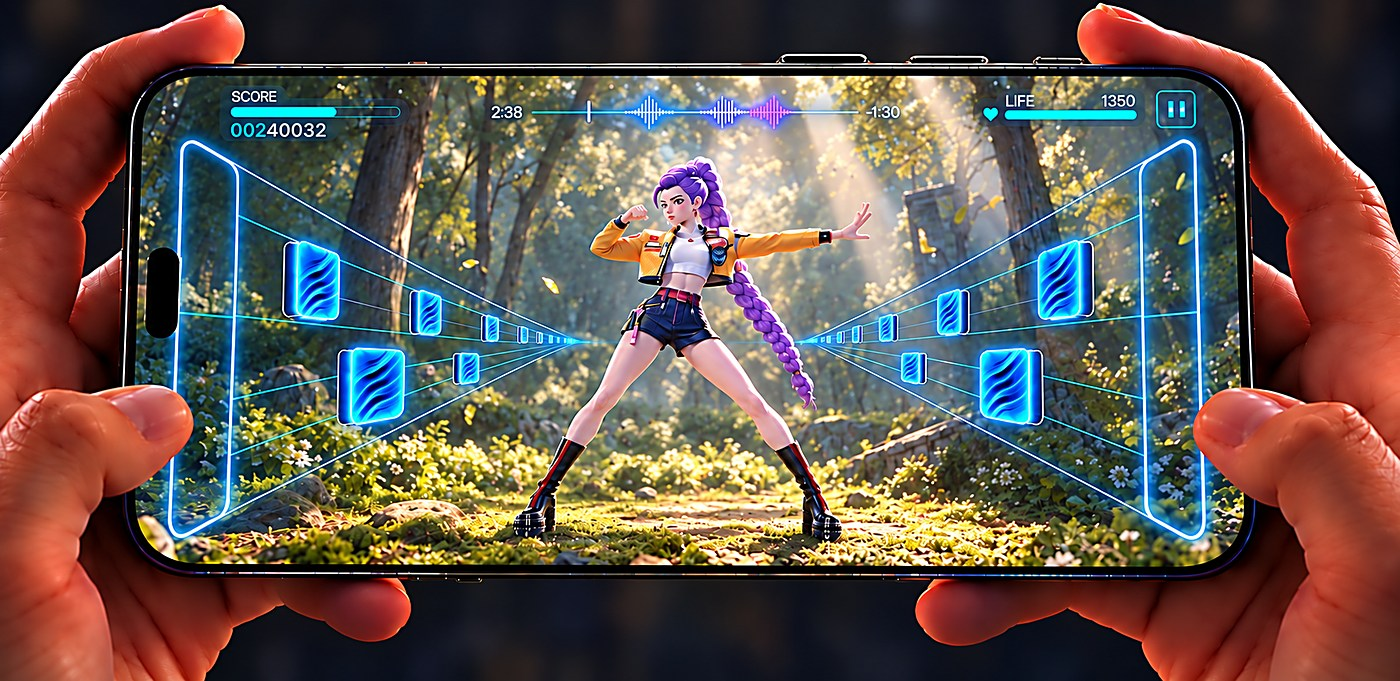
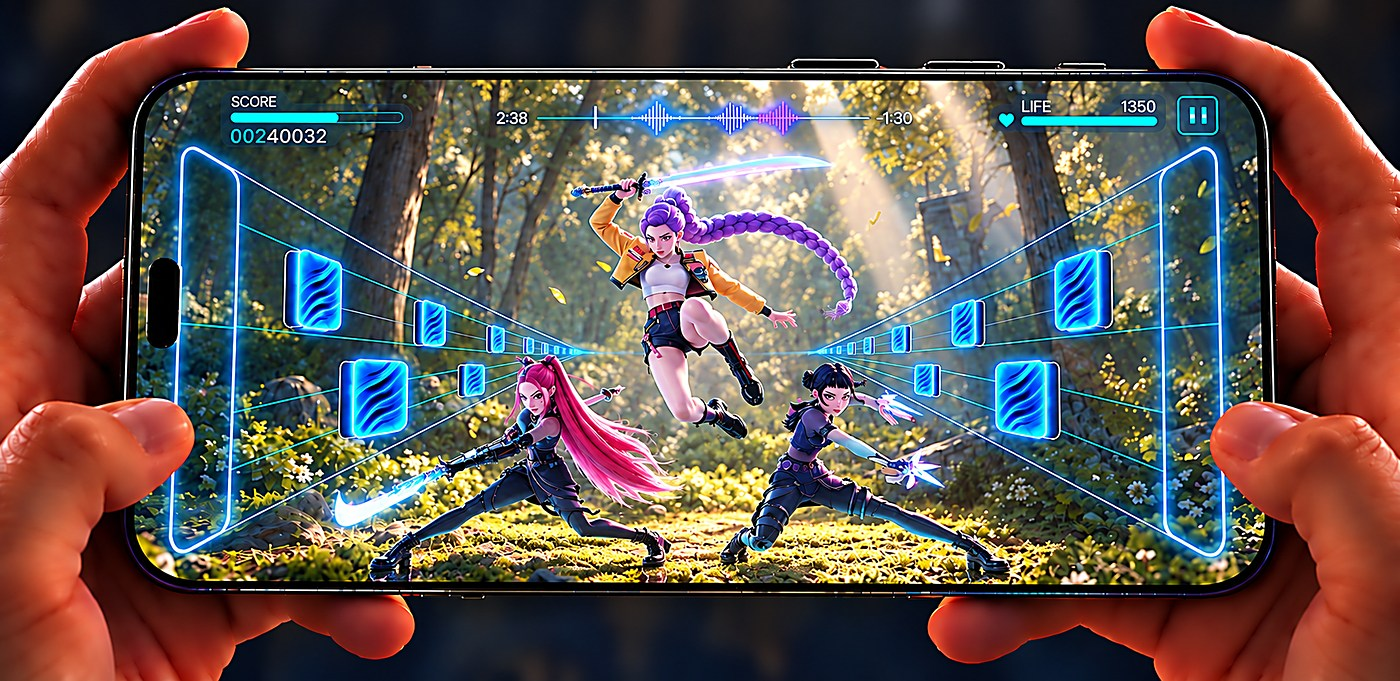
Trio en combate en los mundos y nuevo escenario del tren

diff --git a/index.html b/index.html
@@ -925,7 +925,6 @@ footer{padding:clamp(2.5rem,7vh,4rem) var(--gutter);border-top:1px solid var(--h
         <img src="assets/vert-casilleros.jpg" alt="Interfaz vertical con dos casilleros por lado y lineas de fuga convergiendo detras del personaje" />
       </div>
       <p class="note" style="margin-top:1.2rem;">Un casillero por lado, dibujado con el mismo contorno ne&oacute;n que el pad horizontal. De cada uno sale un abanico de gu&iacute;as que converge en <b>un solo punto detr&aacute;s del personaje</b>: los bloques nacen ah&iacute;, chicos y apretados, y crecen a medida que se acercan al casillero. Deja de ser un grupo de piezas flotando y pasa a ser <b>dos corredores de profundidad</b>.</p>
-      <p class="note" style="margin-top:.9rem;">El centro pas&oacute; a ser <b>el tr&iacute;o completo en acci&oacute;n</b>, con poses de combate tomadas de la pel&iacute;cula: el salto en el medio y las dos en guardia a los costados. Confirma que el espacio libre del formato vertical alcanza para tres personajes sin tapar ni los corredores ni los casilleros.</p>
 
       <div class="fuga reveal">
         <figure>
@@ -980,11 +979,19 @@ footer{padding:clamp(2.5rem,7vh,4rem) var(--gutter);border-top:1px solid var(--h
           <img src="assets/vert-rio.jpg" alt="Version Z a orillas del rio Han al atardecer" />
           <figcaption>06 &middot; R&iacute;o Han &mdash; atardecer</figcaption>
         </figure>
+        <figure class="variant reveal">
+          <img src="assets/vert-tren.jpg" alt="Version Z sobre el techo del tren, con la marea demoniaca" />
+          <figcaption>07 &middot; El tren &mdash; amanecer y marea demon&iacute;aca</figcaption>
+        </figure>
       </div>
 
-      <p class="note" style="margin-top:1.6rem;">Tres localizaciones reales de la pel&iacute;cula, elegidas por rango de luz m&aacute;s que por variedad decorativa: <b>bosque a plena luz</b>, <b>aldea hanok c&aacute;lida de d&iacute;a</b> y <b>r&iacute;o Han al atardecer</b>. El cian aguanta los tres, y siempre por el mismo motivo: es el &uacute;nico elemento fr&iacute;o en escenas enteramente c&aacute;lidas.</p>
+      <p class="note" style="margin-top:1.6rem;">Cuatro localizaciones reales de la pel&iacute;cula, elegidas por rango de luz m&aacute;s que por variedad decorativa: <b>bosque a plena luz</b>, <b>aldea hanok c&aacute;lida de d&iacute;a</b>, <b>r&iacute;o Han al atardecer</b> y <b>el techo del tren al amanecer</b>. El cian aguanta las cuatro, y siempre por el mismo motivo: es el &uacute;nico elemento fr&iacute;o en escenas enteramente c&aacute;lidas.</p>
 
       <p class="note" style="margin-top:.9rem;">El hallazgo del bosque: los rayos de sol entre los &aacute;rboles <b>compiten con las l&iacute;neas de fuga</b>. En la arena nocturna las gu&iacute;as eran lo &uacute;nico lineal en cuadro; en exteriores hay que defender esa lectura.</p>
+
+      <p class="note" style="margin-top:.9rem;">El centro pas&oacute; a ser <b>el tr&iacute;o completo en acci&oacute;n</b>, con poses de combate tomadas de la pel&iacute;cula. Confirma que el espacio libre del formato vertical alcanza para tres personajes peleando sin tapar ni los corredores ni los casilleros: deja de ser una idol bailando y pasa a ser <b>cinem&aacute;tica jugable</b>.</p>
+
+      <p class="note" style="margin-top:.9rem;">El caso del tren es el m&aacute;s exigente de los cuatro: es un mundo <b>pastel y de bajo contraste</b>, casi monocromo lavanda, donde no hay negro que sostenga el ne&oacute;n. Es tambi&eacute;n el &uacute;nico que trae la <b>marea demon&iacute;aca dentro del cuadro</b>, y por lo tanto el que m&aacute;s se acerca a la idea de pelear mientras se tapea.</p>
     </div>
   </section>
 
